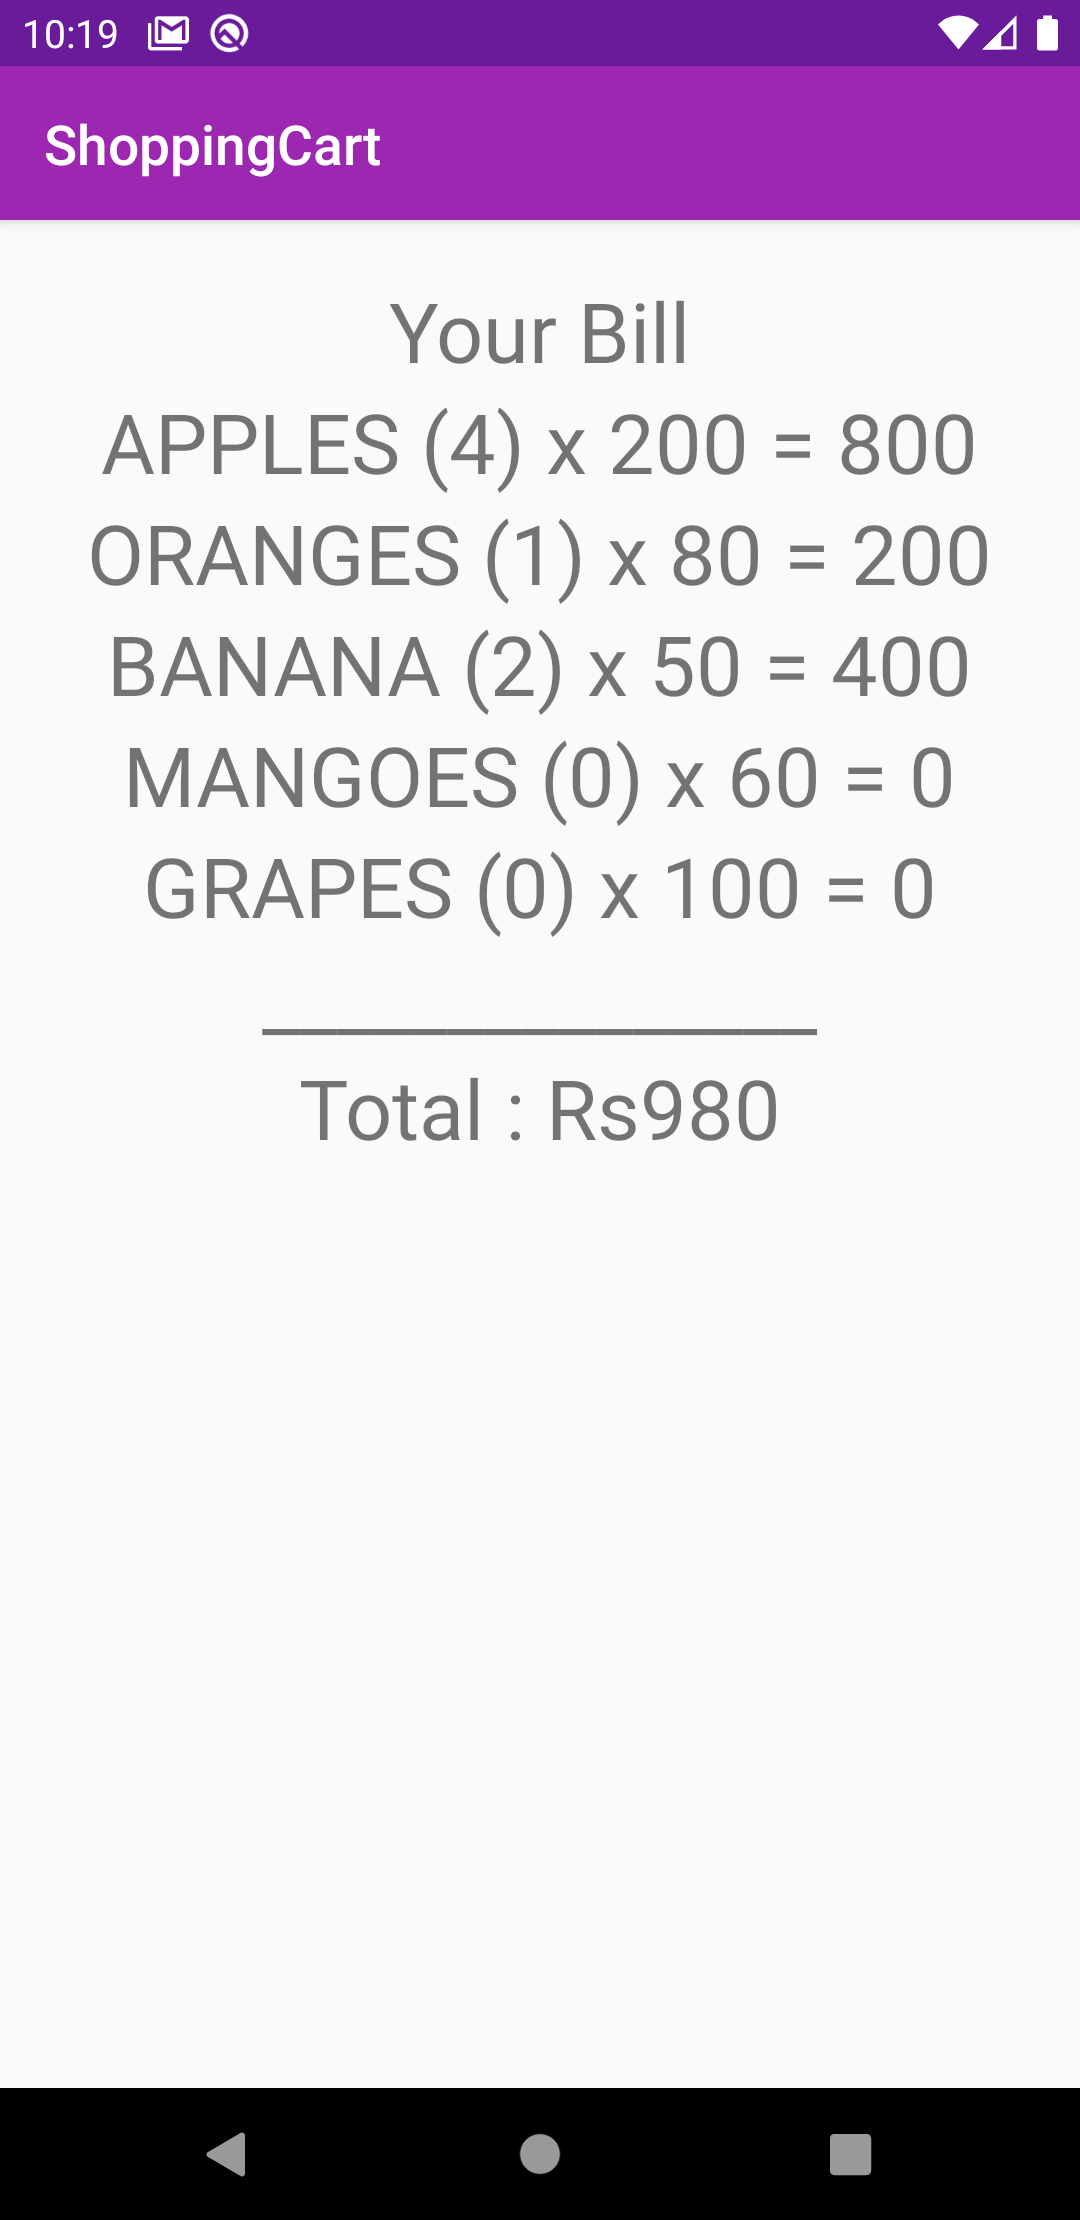
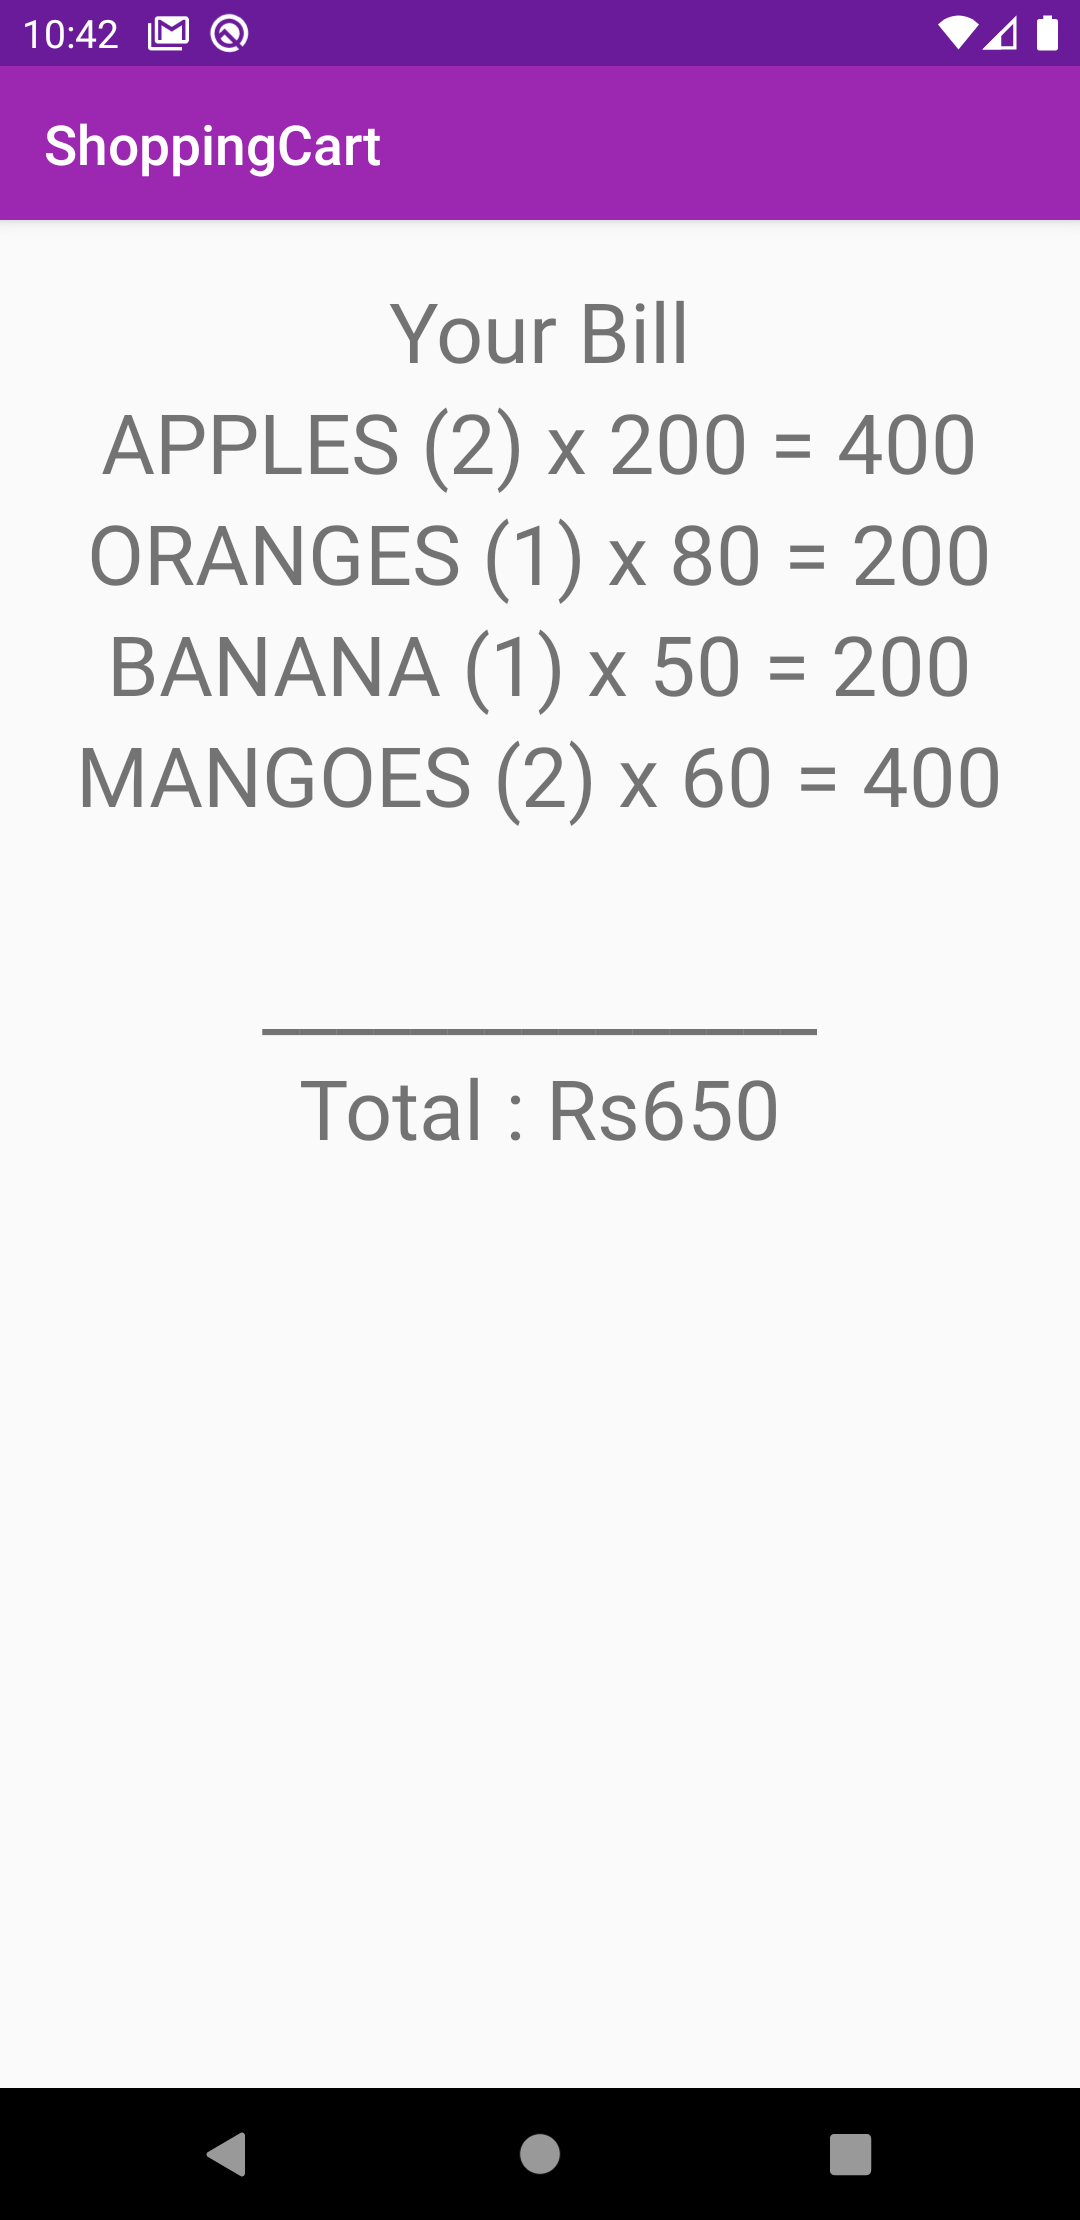
version 1.1

diff --git a/app/src/main/java/com/urk17cs290/shoppingcart/BillActivity.java b/app/src/main/java/com/urk17cs290/shoppingcart/BillActivity.java
@@ -29,11 +29,17 @@ public class BillActivity extends AppCompatActivity {
     TextView grape = findViewById(R.id.grapes);
     TextView total = findViewById(R.id.total);
 
-    apple.setText(MessageFormat.format("APPLES ({0}) x 200 = {1}", aCount, aCount * 200));
-    orange.setText(MessageFormat.format("ORANGES ({0}) x 80 = {1}", oCount, oCount * 200));
-    banana.setText(MessageFormat.format("BANANA ({0}) x 50 = {1}", bCount, bCount * 200));
-    mango.setText(MessageFormat.format("MANGOES ({0}) x 60 = {1}", mCount, mCount * 200));
-    grape.setText(MessageFormat.format("GRAPES ({0}) x 100 = {1}", gCount, gCount * 200));
+    if(aCount > 0)
+      apple.setText(MessageFormat.format("APPLES ({0}) x 200 = {1}", aCount, aCount * 200));
+    if(oCount > 0)
+      orange.setText(MessageFormat.format("ORANGES ({0}) x 80 = {1}", oCount, oCount * 200));
+    if(bCount > 0)
+      banana.setText(MessageFormat.format("BANANA ({0}) x 50 = {1}", bCount, bCount * 200));
+    if(mCount > 0)
+      mango.setText(MessageFormat.format("MANGOES ({0}) x 60 = {1}", mCount, mCount * 200));
+    if(gCount > 0)
+      grape.setText(MessageFormat.format("GRAPES ({0}) x 100 = {1}", gCount, gCount * 200));
+
     total.setText(MessageFormat.format("Total : Rs{0}", tot));
 
 
